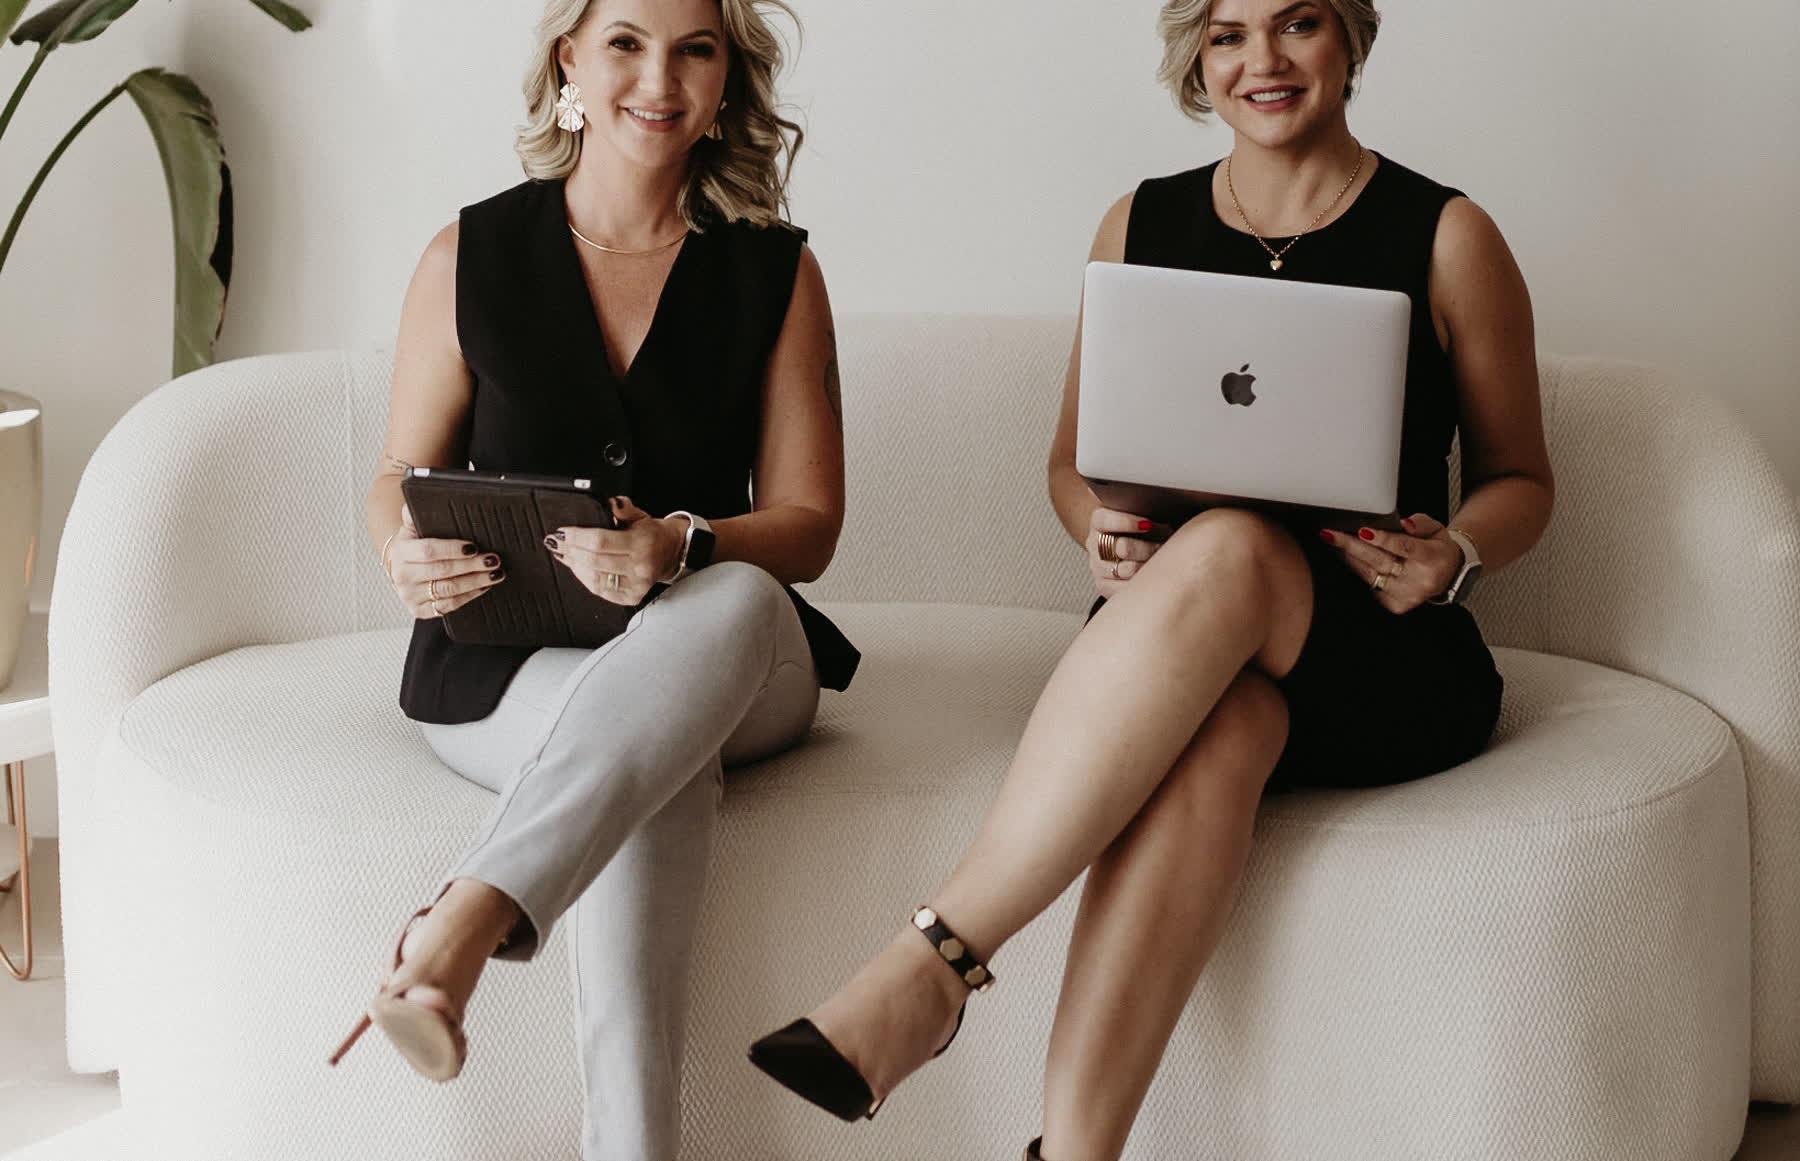
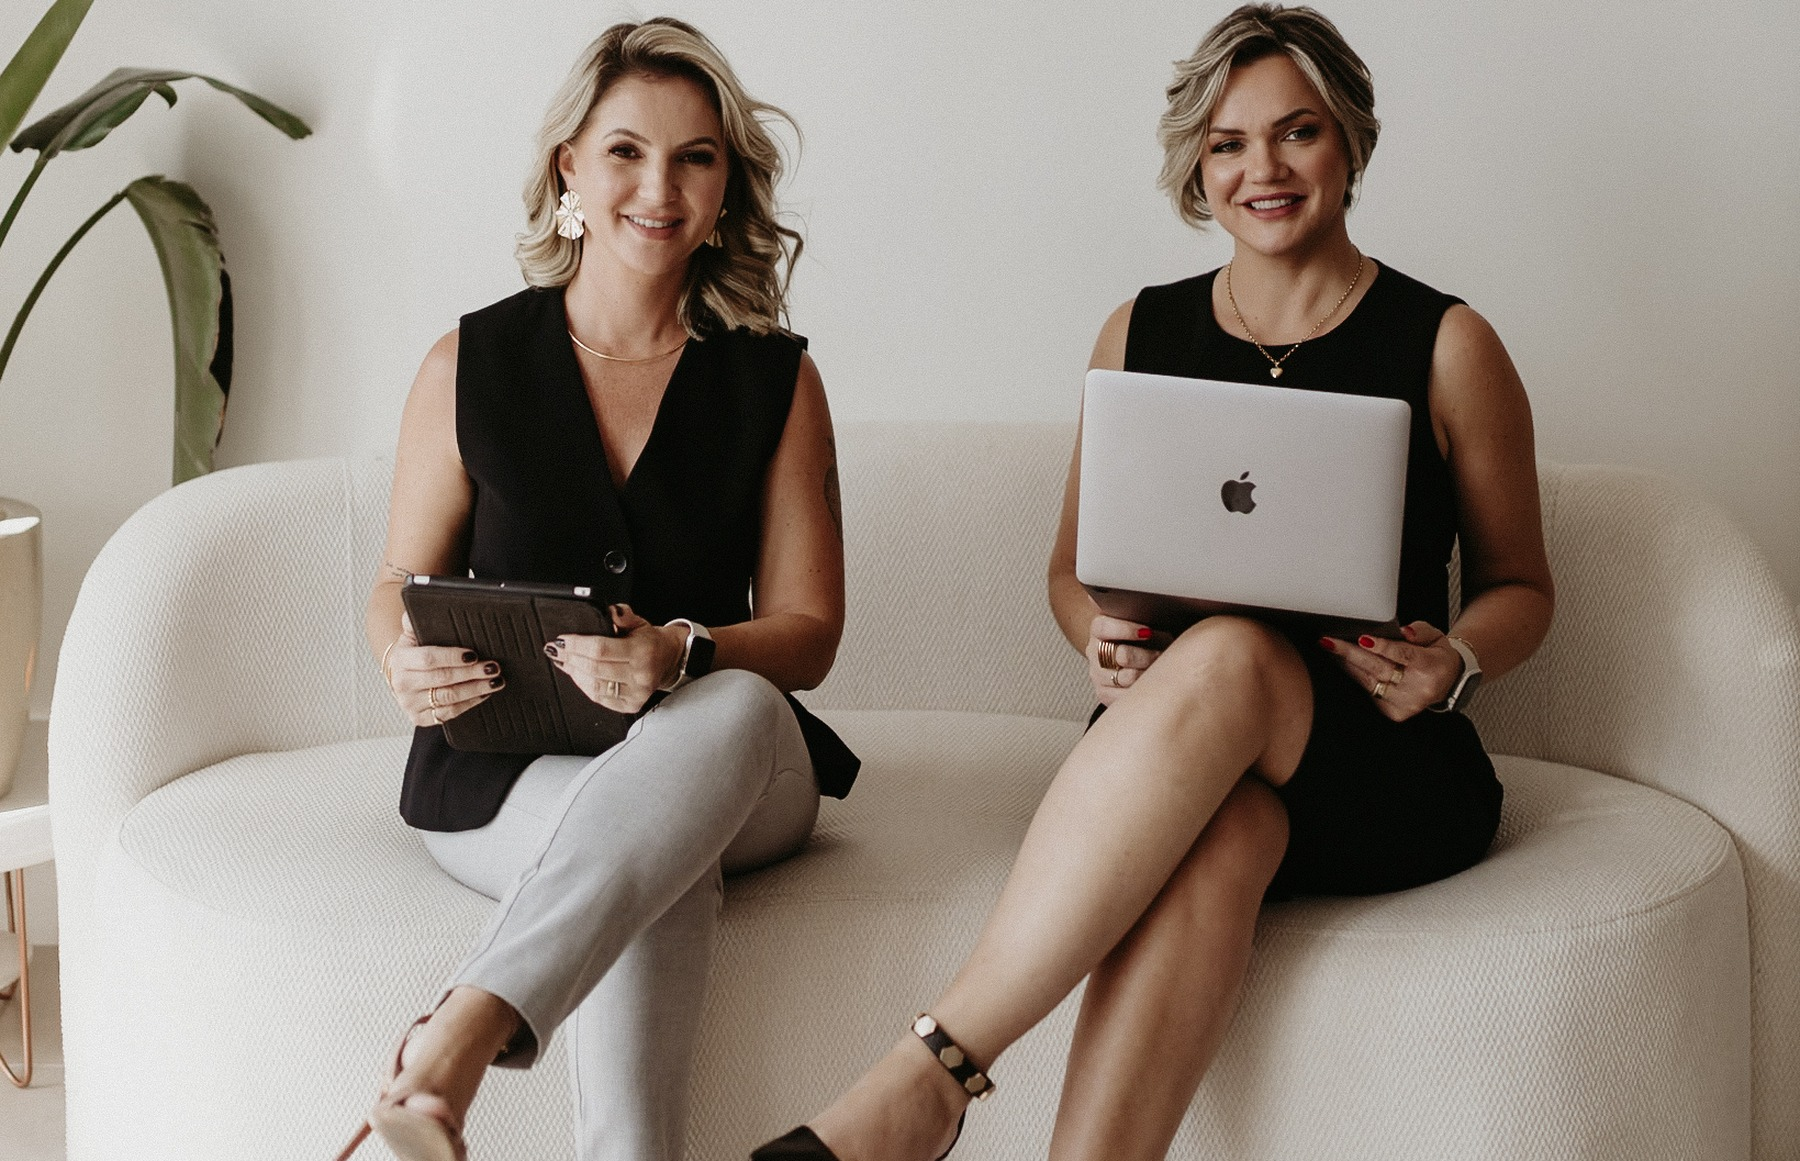
fix(lp): abaixa foco do hero inventário e opacidade do form
Recrop do IMG_8077_hero com um pouco mais de folga acima das
cabeças e form frosted um pouco menos transparente em todas as LPs.

diff --git a/src/components/lp/LpLeadForm.tsx b/src/components/lp/LpLeadForm.tsx
@@ -20,7 +20,7 @@ export function LpLeadForm({ title, subtitle, fields, cta }: LpLeadFormProps) {
 
   if (submitted) {
     return (
-      <div className="flex min-h-[380px] flex-col items-center justify-center rounded-[1.75rem] border border-white/50 bg-white/70 px-6 py-10 text-center shadow-lp backdrop-blur-md">
+      <div className="flex min-h-[380px] flex-col items-center justify-center rounded-[1.75rem] border border-white/60 bg-white/88 px-6 py-10 text-center shadow-lp backdrop-blur-md">
         <p className="font-seasons text-3xl text-lp-ink">Recebemos seu caso.</p>
         <p className="mt-3 max-w-xs text-sm leading-relaxed text-lp-muted">
           Em breve nossa equipe entra em contato pelo WhatsApp para a análise gratuita.
@@ -32,9 +32,9 @@ export function LpLeadForm({ title, subtitle, fields, cta }: LpLeadFormProps) {
   return (
     <form
       onSubmit={onSubmit}
-      className="w-full max-w-[480px] overflow-hidden rounded-[1.75rem] border border-white/55 bg-white/72 shadow-lp backdrop-blur-md lg:max-w-none"
+      className="w-full max-w-[480px] overflow-hidden rounded-[1.75rem] border border-white/65 bg-white/88 shadow-lp backdrop-blur-md lg:max-w-none"
     >
-      <div className="border-b border-lp-ink/8 bg-white/45 px-5 py-4 md:px-6">
+      <div className="border-b border-lp-ink/8 bg-white/70 px-5 py-4 md:px-6">
         <h2 className="font-seasons text-[1.55rem] leading-tight text-lp-ink md:text-[1.65rem]">{title}</h2>
         <p className="mt-1 text-sm text-lp-muted">{subtitle}</p>
       </div>
@@ -53,7 +53,7 @@ export function LpLeadForm({ title, subtitle, fields, cta }: LpLeadFormProps) {
                 required={field.required}
                 value={values[field.id] ?? ""}
                 onChange={(e) => setValues((v) => ({ ...v, [field.id]: e.target.value }))}
-                className="w-full rounded-2xl border border-lp-ink/10 bg-white/65 px-3.5 py-2.5 text-sm text-lp-ink outline-none transition focus:border-lp-gold"
+                className="w-full rounded-2xl border border-lp-ink/10 bg-white/85 px-3.5 py-2.5 text-sm text-lp-ink outline-none transition focus:border-lp-gold"
               >
                 <option value="">{field.placeholder ?? "Selecione"}</option>
                 {field.options?.map((opt) => (
@@ -69,7 +69,7 @@ export function LpLeadForm({ title, subtitle, fields, cta }: LpLeadFormProps) {
                 placeholder={field.placeholder}
                 value={values[field.id] ?? ""}
                 onChange={(e) => setValues((v) => ({ ...v, [field.id]: e.target.value }))}
-                className="w-full rounded-2xl border border-lp-ink/10 bg-white/65 px-3.5 py-2.5 text-sm text-lp-ink outline-none transition focus:border-lp-gold"
+                className="w-full rounded-2xl border border-lp-ink/10 bg-white/85 px-3.5 py-2.5 text-sm text-lp-ink outline-none transition focus:border-lp-gold"
               />
             )}
           </label>

diff --git a/src/content/lp/inventario.tsx b/src/content/lp/inventario.tsx
@@ -21,8 +21,8 @@ export const inventarioContent: LpContent = {
     "Mais de 10 anos em família e sucessões",
   ],
   heroImage: "/IMG_8077_hero.jpg",
-  // Asset landscape com folga acima da cabeça (padrão LP Saúde)
-  heroObjectPosition: "center 8%",
+  // Foco um pouco mais baixo: mais folga acima das cabeças
+  heroObjectPosition: "center 18%",
   finalCtaImage: "/IMG_8287.jpg",
   finalCtaObjectPosition: "center 30%",
   formTitle: "Análise gratuita do seu inventário",
